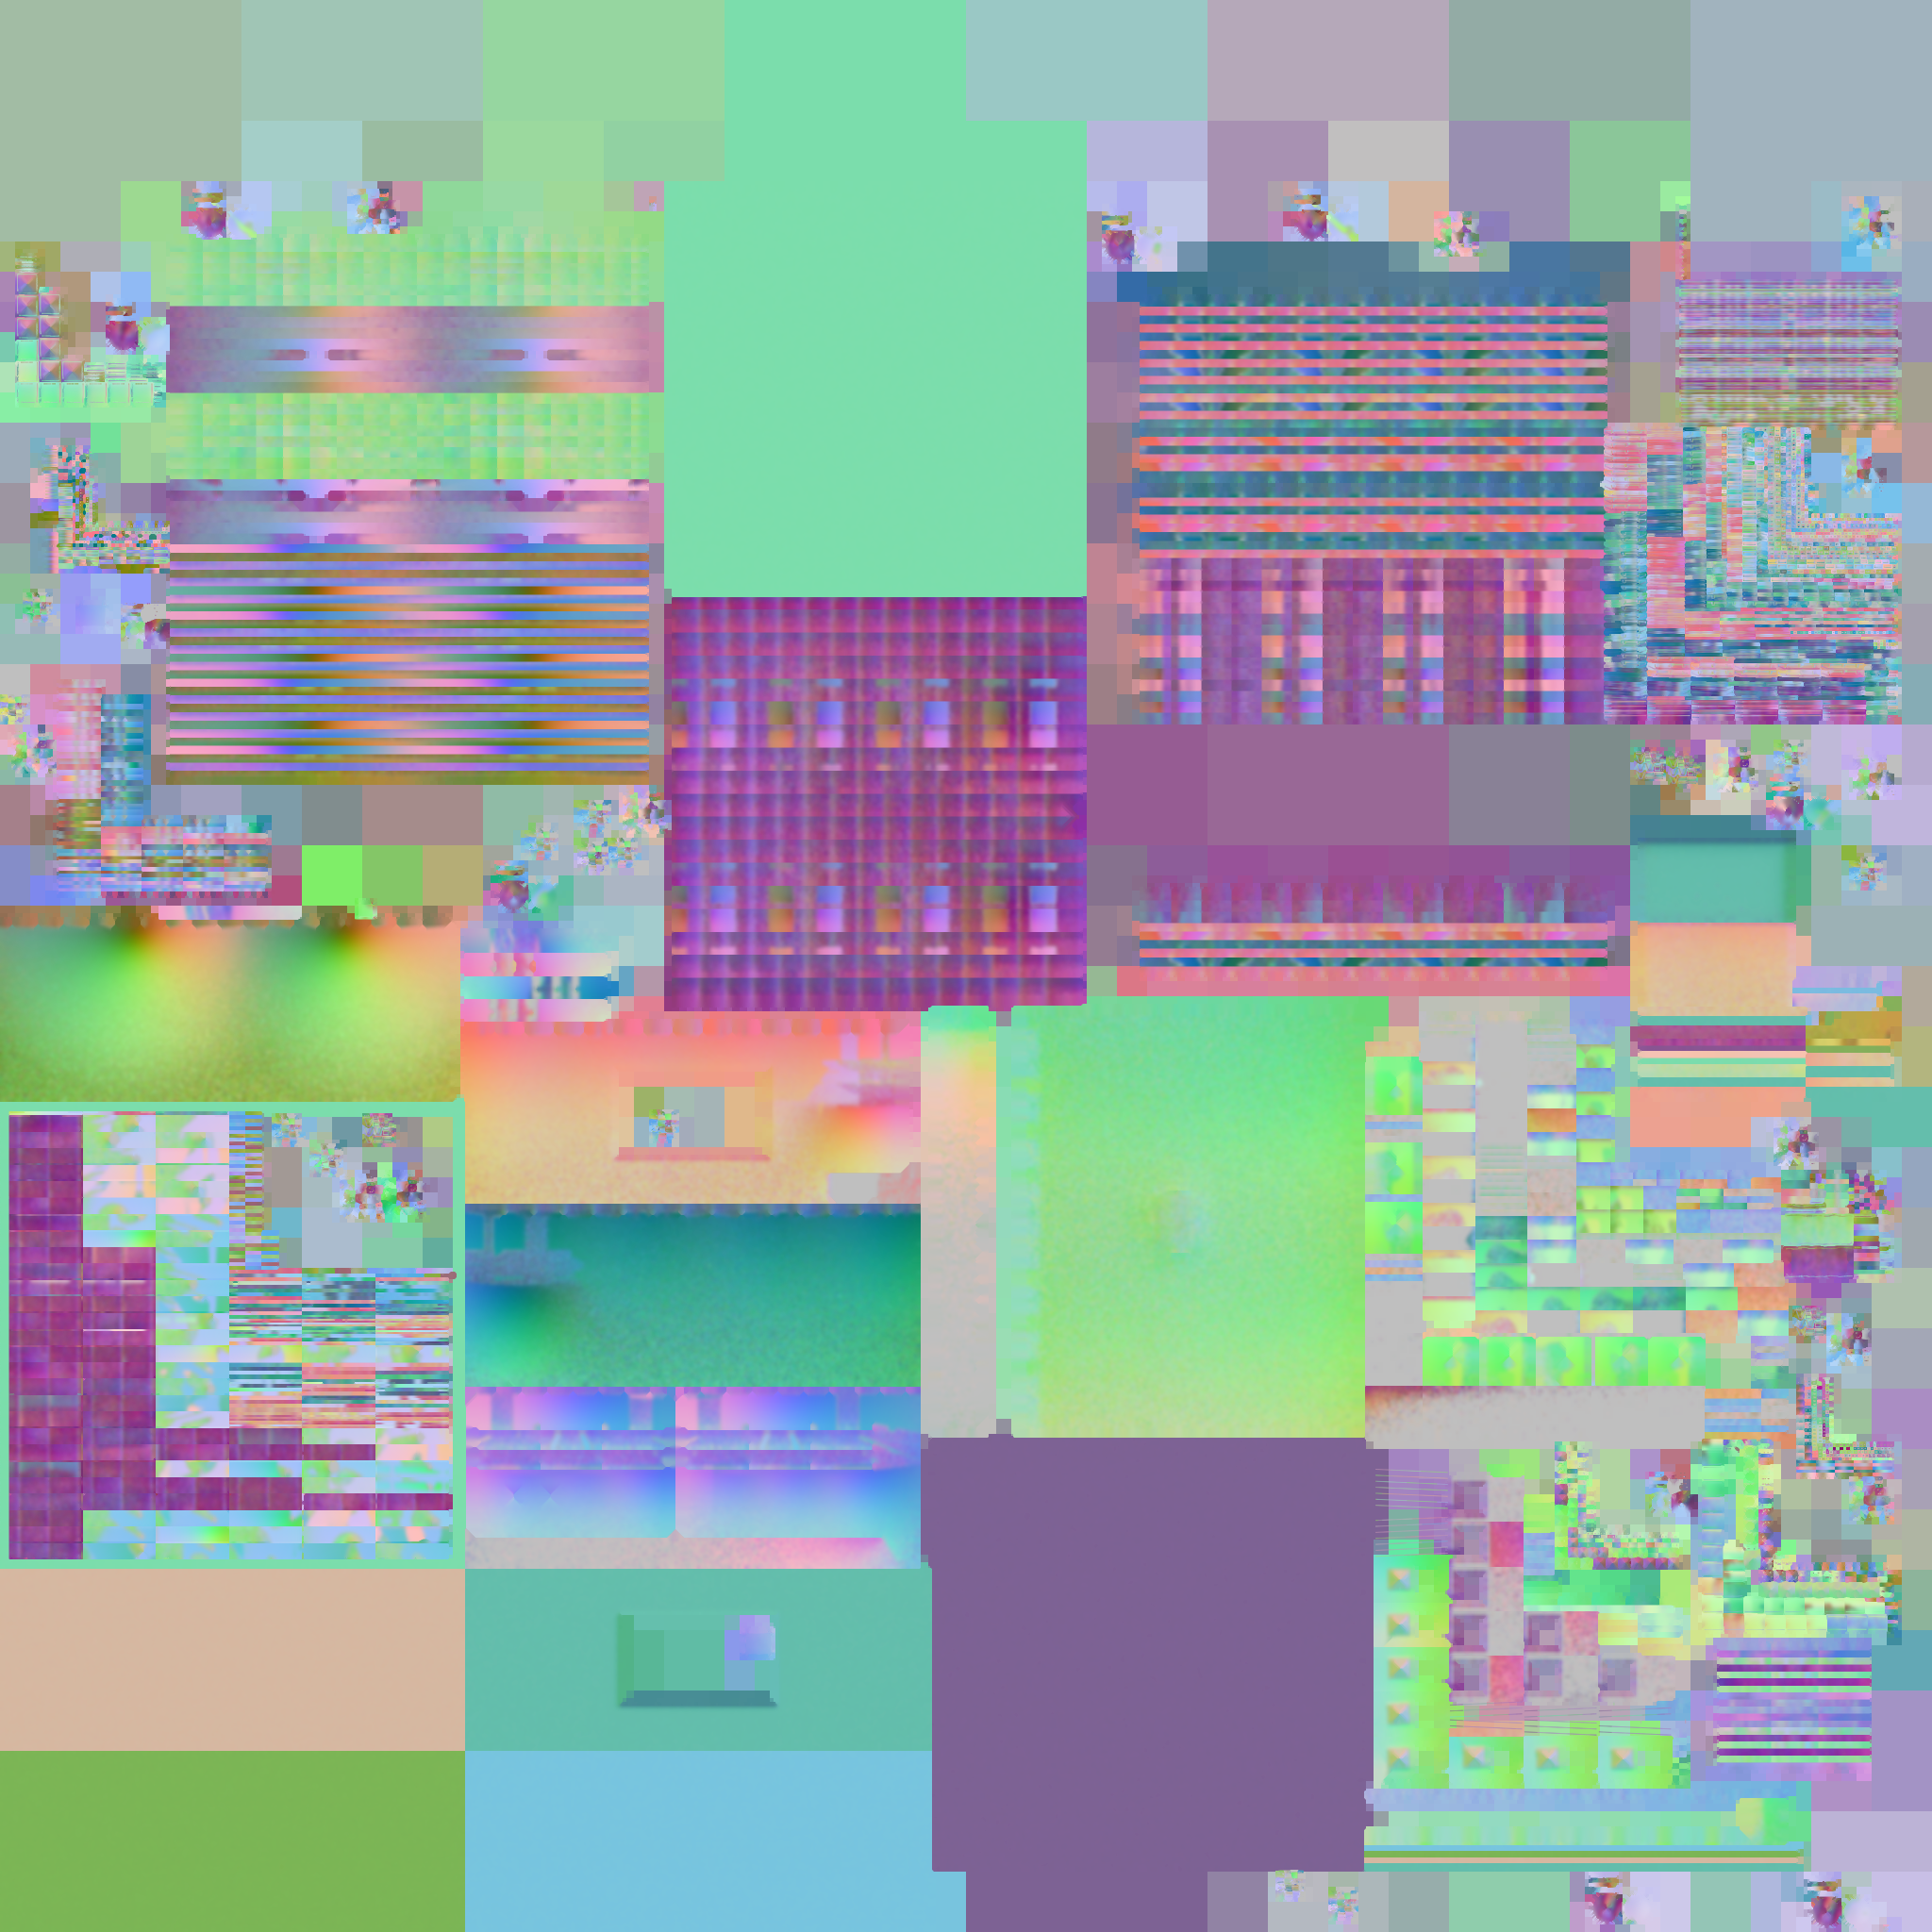
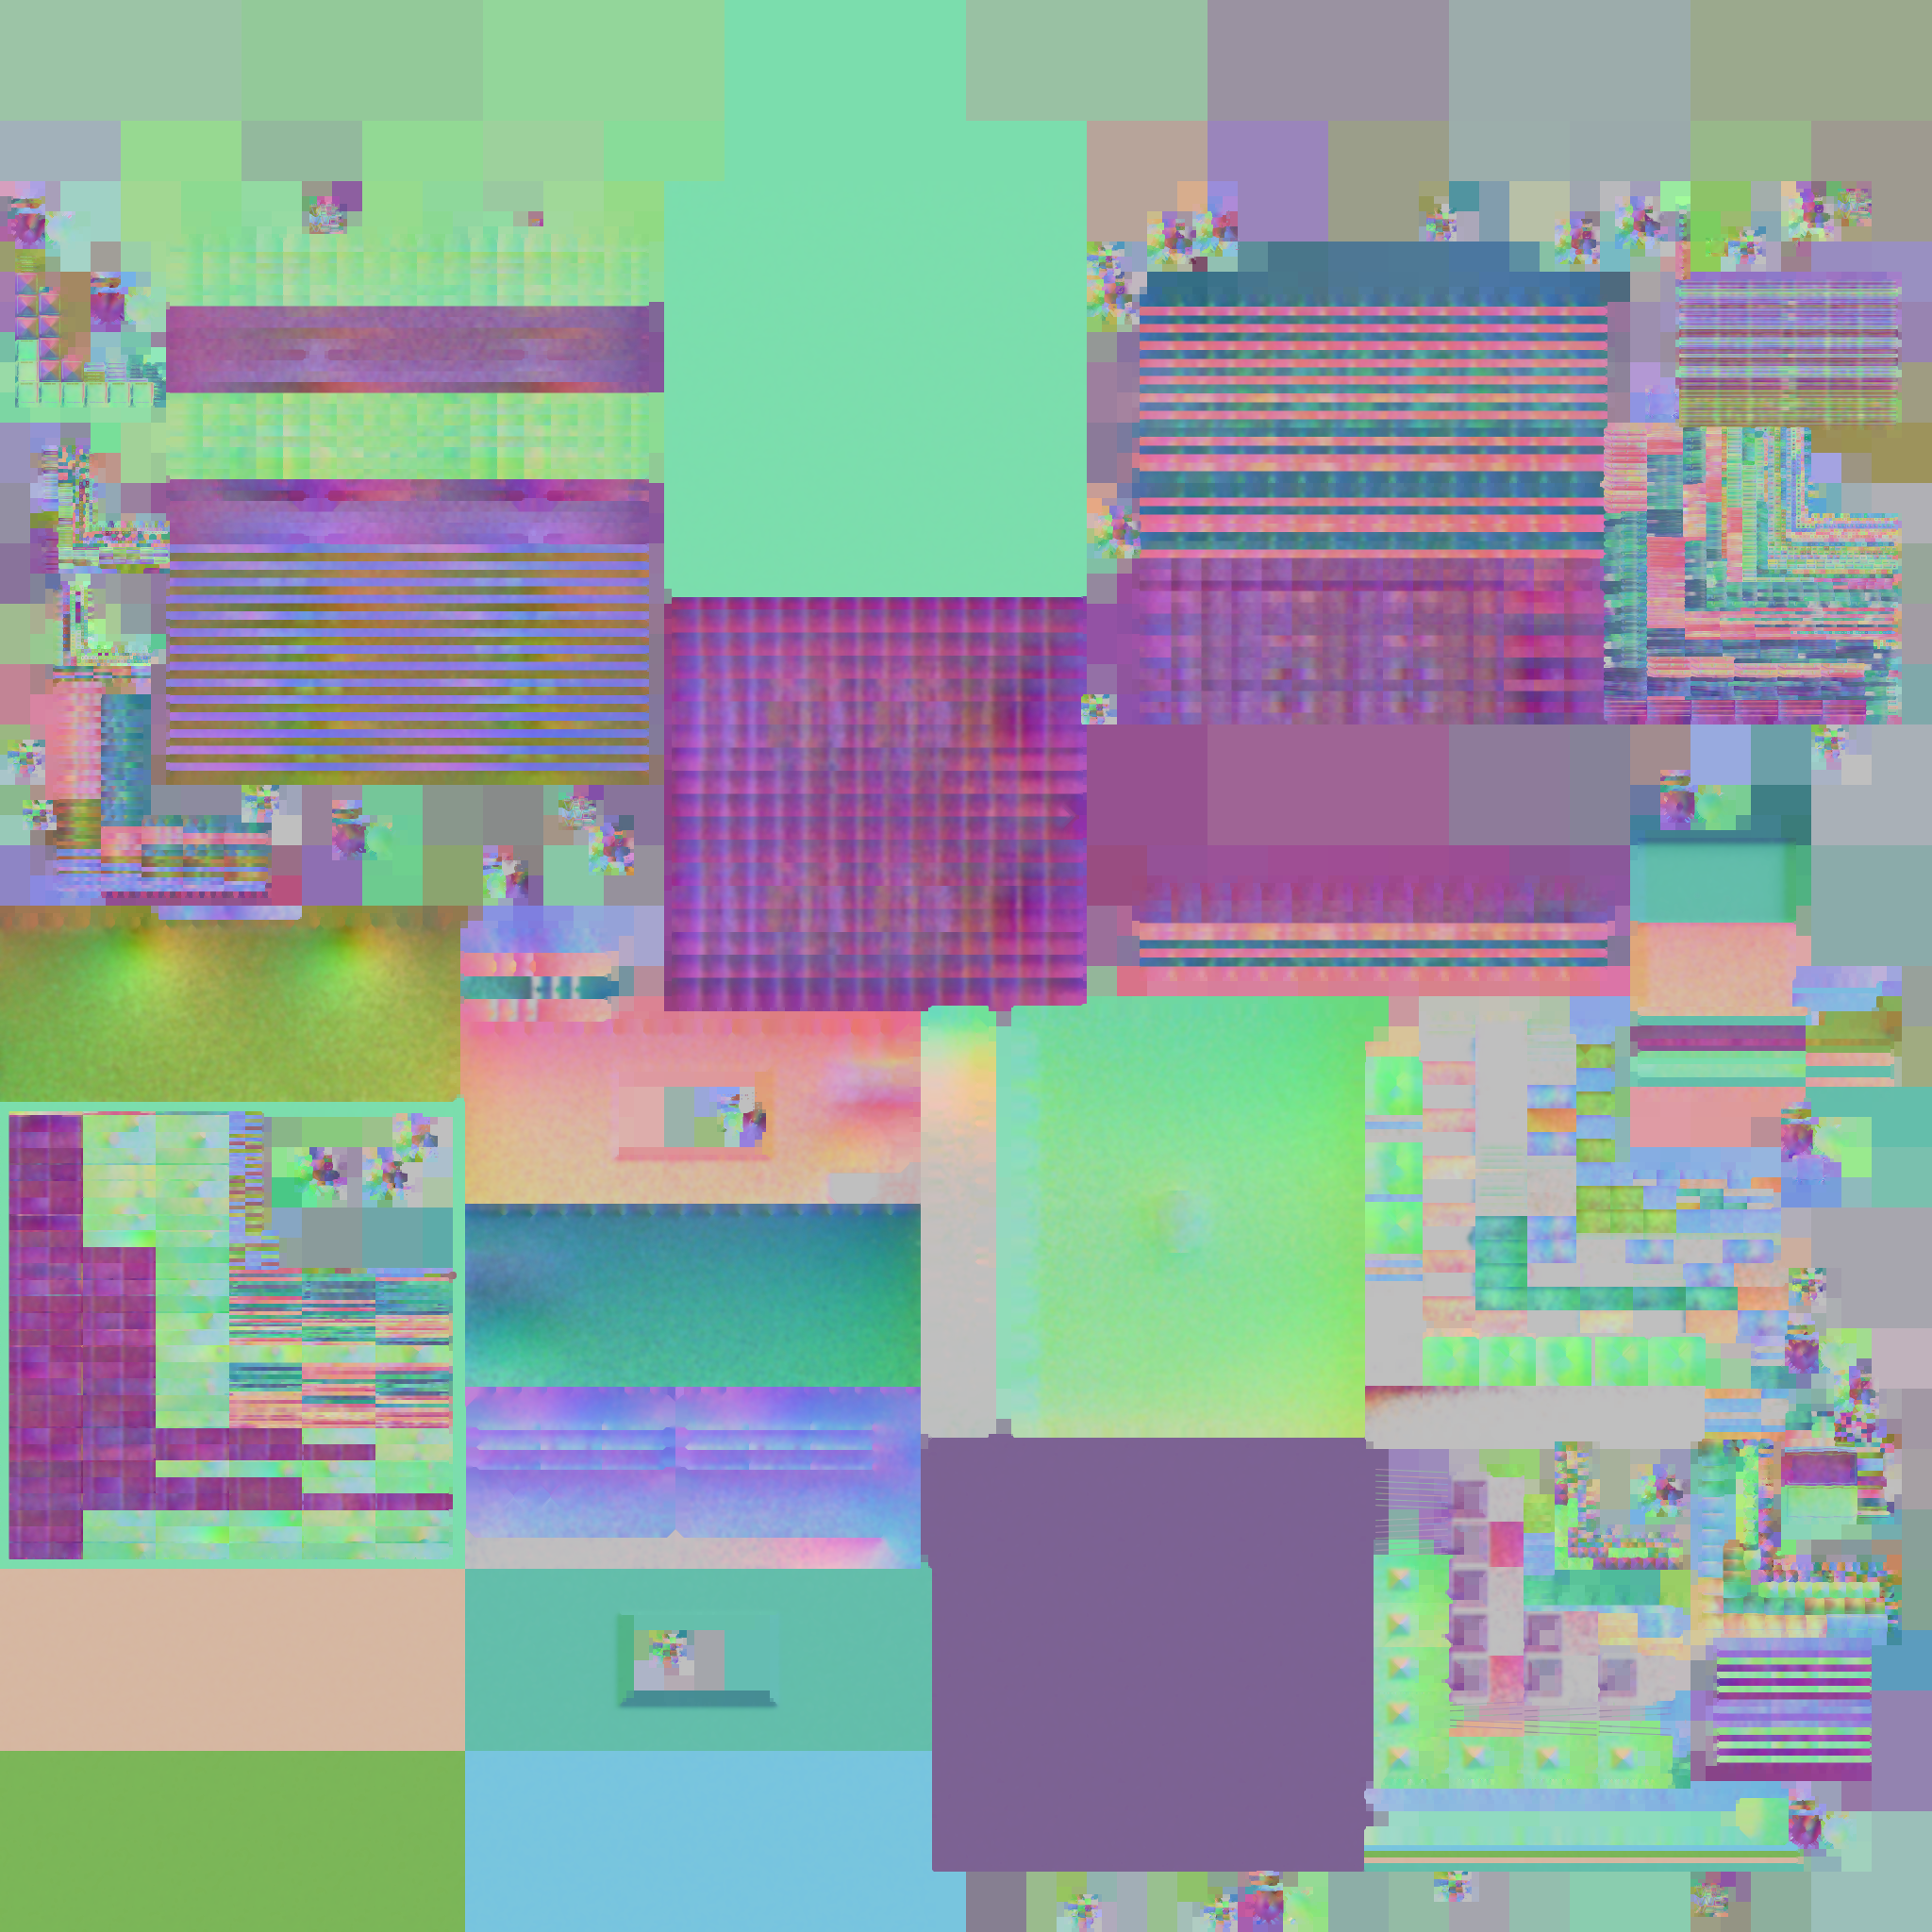
ライティングの設定を調整し、パフォーマンスを改善

diff --git a/Assets/Features/Clay/Scripts/ClayDepthPass.cs b/Assets/Features/Clay/Scripts/ClayDepthPass.cs
@@ -31,7 +31,6 @@ namespace Features.Clay.Scripts
             var resourceData = frameData.Get<UniversalResourceData>();
 
             var depthDesc = renderGraph.GetTextureDesc(resourceData.activeDepthTexture);
-            depthDesc.msaaSamples = MSAASamples.None;
             depthDesc.clearBuffer = true;
 
             var depthTempRTs = new TextureHandle[2];